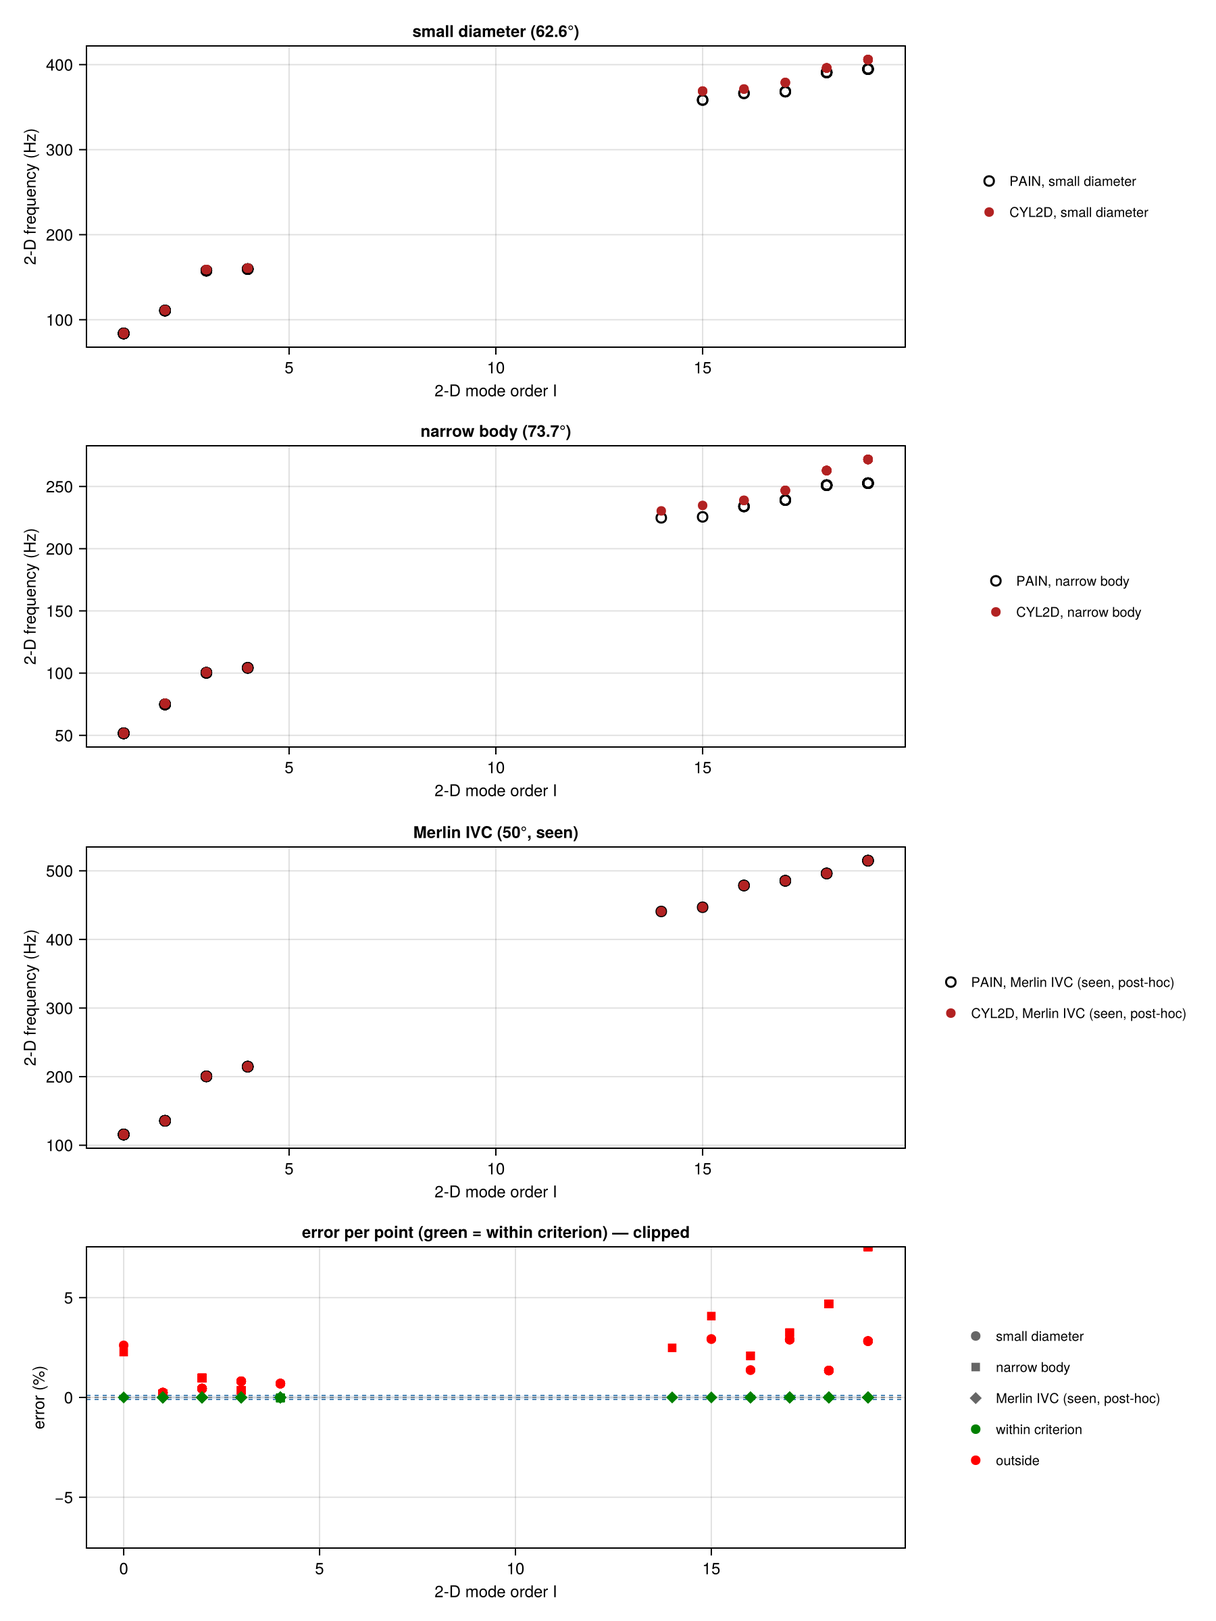
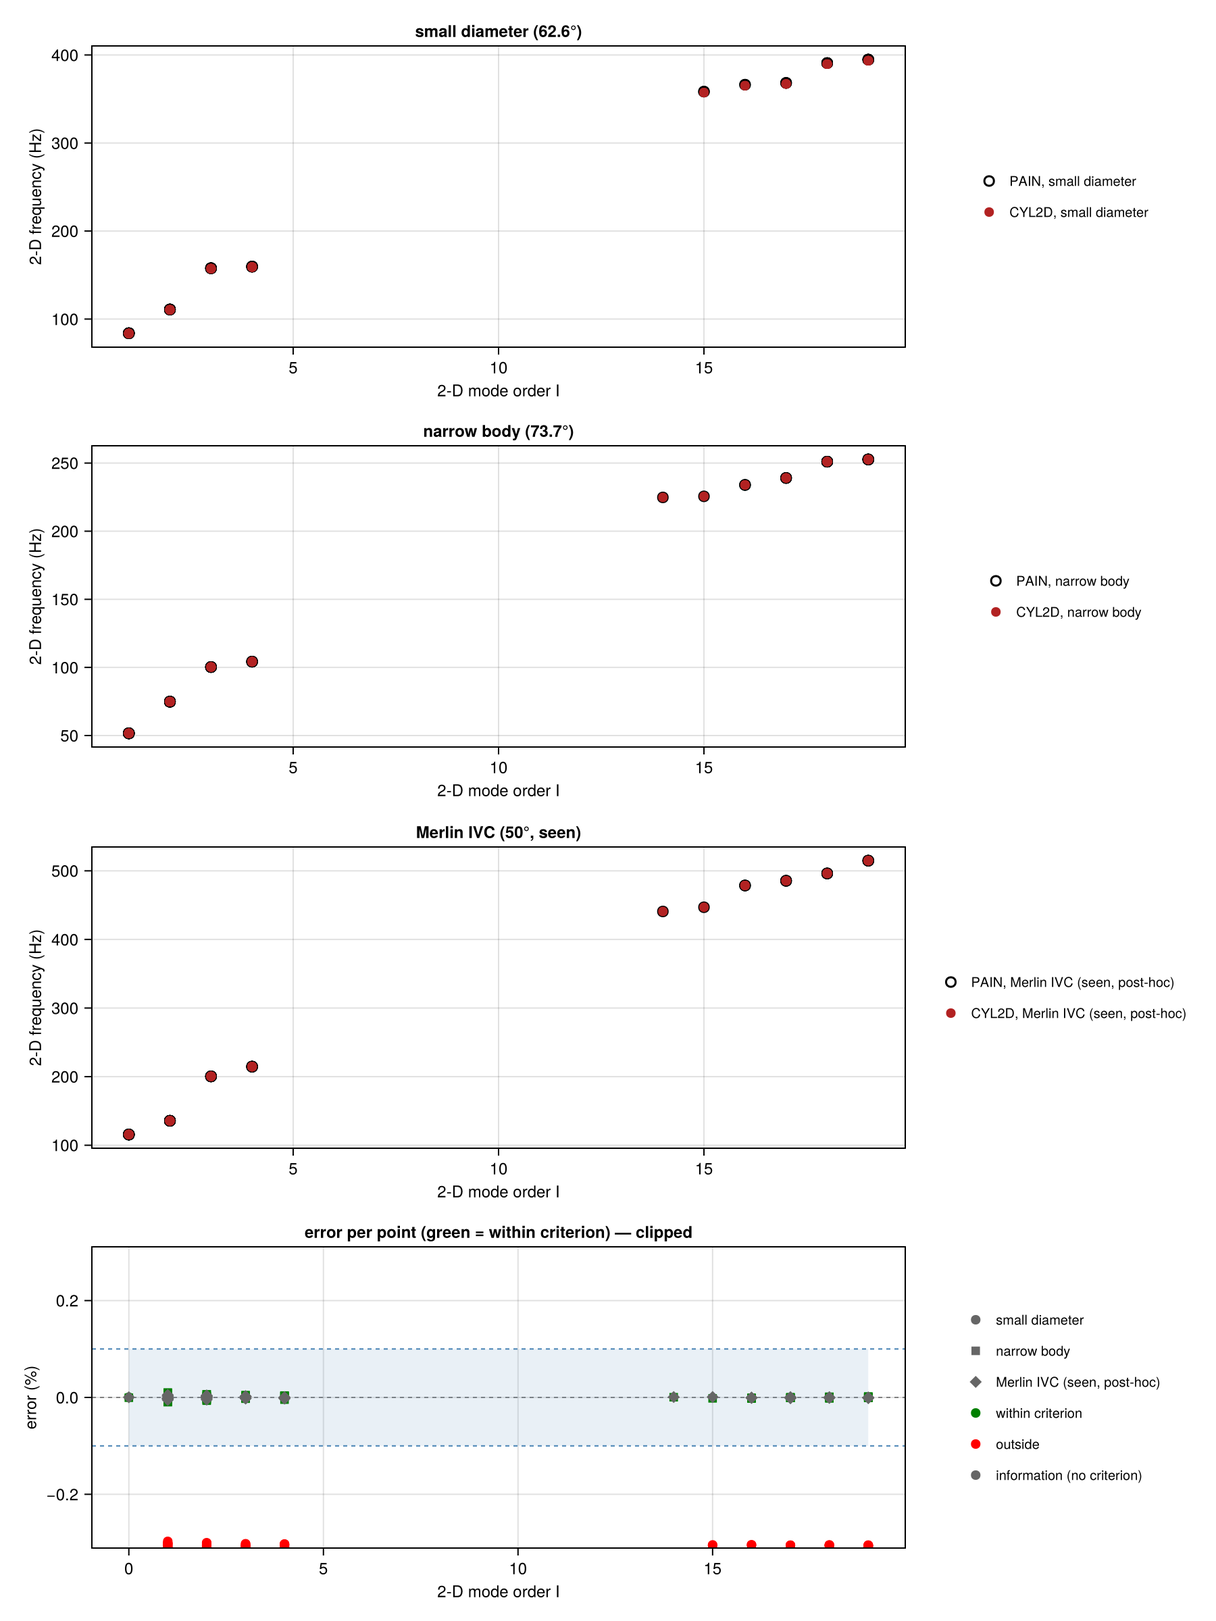
PAIN ISSUE-033 closed: CYL2D runs on NASA's printed grid at every floor angle; CYL2D_PRINTED stays not met
- On NASA's grid for a floor angle the kept eigenvalues' real parts are used (warning); the Phase 79b check
  (0.001, unchanged) still rejects any other grid. Basis: User Manual 5.1 (IMSL EIGRF, no rejection) and NASA's
  printed modes for the 62.6 deg grid.
- 62.6 deg, post-hoc re-run: eps(0,0) as printed, types 53/53, every frequency 0.30-0.31 % low (0/53 within
  0.1 %): one common factor, not explained by the documents; no input chosen from it.

diff --git a/PAIN_Program/docs/VALIDATION.md b/PAIN_Program/docs/VALIDATION.md
@@ -33,7 +33,7 @@ Each bar spans the part of the program chain a case runs: from the stage its giv
 | Cabin modes → Cabin modes | NASA's printed prediction | Cabin-mode factor ε_n against NASA's printout (CR-172428, App. B) (`APPB_EPS_N`) | met | 48/48 |
 | Cabin modes → Cabin modes | NASA's printed prediction | Cabin acoustic mode frequencies against NASA's printed list (CR-172428, App. B) (`CABIN_FREQ_PRINTED`) | met | 47/47 |
 | Cabin modes → Cabin modes | NASA's printed prediction | Cabin acoustic modes of the floored cylinder against NASA's Table C-1 (CR-3813) (`CYL2D_C1`) | met | 59/59 |
-| Cabin modes → Cabin modes | NASA's printed prediction | Cabin acoustic modes of two more aircraft against NASA's printed lists (CR-172428, App. C) (`CYL2D_PRINTED`) | not met | 62/116 |
+| Cabin modes → Cabin modes | NASA's printed prediction | Cabin acoustic modes of two more aircraft against NASA's printed lists (CR-172428, App. C) (`CYL2D_PRINTED`) | not met | 63/116 |
 | Cabin modes → Damping and trim | NASA's printed prediction | Cabin-mode loss factors with trim loss factor 2.0 against NASA's printout (CR-172428, p. 85) (`APPB_ETA_N_T2_BAND`) | met | 3/3 |
 | Damping and trim → Damping and trim | NASA's printed prediction | Loss factors of structure–cabin mode pairs against NASA's printout (CR-172428, App. B) (`APPB_ETA_RPP`) | met | 16/19 |
 
@@ -41,7 +41,7 @@ Each bar spans the part of the program chain a case runs: from the stage its giv
 
 | Case | Points | NASA's own printout on the same gate | Cause | Why | Tested in | What is left |
 |---|---|---|---|---|---|---|
-| `CYL2D_PRINTED` | 62/116 | not printed | approximation in this recreation | On NASA's printed grid rule the narrow body (61/61) and the Merlin (51/51) are reproduced; at 62.6° this code's eigenproblem fails its own real-eigenvalue check on NASA's grid (|Im|/|Re| 0.0012 against 0.001, a check set in Phase 79b), so the fallback grid of Q60 is used and misses. Why NASA's program solves that grid is not explained by the documents. (`phase140_cyl2d_printed_rule.md`) | Phases 103, 105, 140 | why the 62.6° grid gives complex eigenvalues here and not in NASA's program (ISSUE-033) |
+| `CYL2D_PRINTED` | 63/116 | not printed | NASA's printout or the measurement, not explained by the documents | The narrow body (61/61) and the Merlin (51/51) are reproduced. At 62.6°, on NASA's own grid (solved on the real parts since 2026-11-12, ISSUE-033), ε(0,0) and all 53 mode types equal NASA's and every frequency is 0.30–0.31 % low: one common factor, which a cabin radius or sound speed that is not printed for this aircraft would give. (`issue033_cyl2d_small_diameter.md`) | Phases 103, 105, 140; ISSUE-033 | the common factor 1.00305 (no printed input gives it; none is chosen from the result) |
 | `NR_TP1964_XOVER` | 9/18 | 12/18 (misses too: method limit) | PAIN's method misses the measurement | The misses are the Eq. (18) bands, where a negative noise reduction is a property of the equation (CR-159363 p. 138); the Eq. (19) bands agree within 2.5 dB. (`phase50_58_closeout.md`) | Phases 53, 138 | chart label (ISSUE-031) |
 | `PER_FIG8` | 10/14 | not printed | PAIN's method misses the measurement | Pereira's own CFD misses at the same angles by similar amounts (VALIDATION_GUIDELINE §2.14), and the loads are within 1 % of the measured thrust. (`pereira_forward_flight.md`) | Phases 69, 72, 74, 76 | chart label (ISSUE-031) |
 | `R172428_ETA` | 17/32 | not printed | unexplained (no documented cause survived its test) | Up to 470 Hz every mode is within 12 % of NASA's; above it the modes with almost no shell motion (share under 0.05) agree within 6 % and every other mode is 0.51–0.80 of NASA's. Every cause tested so far was ruled out, the band-centre rule included. (`phase139b_band_centre.md`) | Phases 82c, 118, 139 | look for an error in the loss-factor method (ISSUE-032) |
@@ -56,7 +56,7 @@ NASA's own printout: NASA's printed prediction put on the case's own measured po
 |---|---|---|---|---|
 | Noise reduction of a bare cylinder against measurement (TP-1964, Fig. 8) (`NR_TP1964_XOVER`) | Skin field → Bands and dB(A) | measurement | 9/18 | 9/18 in tol (needs ≥ 75 %) · max \|err\| 16.5 dB · med 5.2 dB |
 | Structural-mode loss factors against NASA's printout (CR-172428, App. B) (`R172428_ETA`) | Wall modes → Damping and trim | NASA's printed prediction | 17/32 | 17/32 within criterion · count only |
-| Cabin acoustic modes of two more aircraft against NASA's printed lists (CR-172428, App. C) (`CYL2D_PRINTED`) | Cabin modes → Cabin modes | NASA's printed prediction | 62/116 | 62/116 in tol (+ 52 shown, not judged) · max \|err\| 3.2 % · med 0.0091 % |
+| Cabin acoustic modes of two more aircraft against NASA's printed lists (CR-172428, App. C) (`CYL2D_PRINTED`) | Cabin modes → Cabin modes | NASA's printed prediction | 63/116 | 63/116 in tol (+ 52 shown, not judged) · max \|err\| 0.31 % · med 0.0088 % |
 | Cabin tone levels of the test article against the measured space averages (CR-172428) (`R172428_EXP`) | Skin field → Interior tones | measurement | 5/9 | 5/9 in tol · max \|err\| 17.6 dB · med 2.1 dB |
 | Propeller tone levels in forward flight against Pereira's measurement (Fig. 8) (`PER_FIG8`) | Blade and polars → Free field | measurement | 10/14 | 10/14 in tol · max \|err\| 3.7 dB · med 0.81 dB |
 | Propeller thrust and power coefficients against measurement (NACA RM L8H25a) (`R996_LOADS`) | Blade and polars → Blade loads | measurement | 24/32 | 24/32 in tol · max \|err\| 38.7 % · med 9.2 % |

diff --git a/PAIN_Program/docs/METHODOLOGY.md b/PAIN_Program/docs/METHODOLOGY.md
@@ -908,6 +908,7 @@ default project (6 blades, 1181 rpm, 22.7 m cabin), values copied by hand. The i
 | Source-block summary (phase 33a/c) | BBN 24b PASS / 24c FAIL; Report 996 23c FAIL (scaled ±2 dB, page-12 phase); Pereira 23d FAIL H1; Gutin cross-check **done** (`F1A_GUTIN`: F1A vs Gutin summed annulus by annulus over the BEMT loads, Δ = 0.03 dB; reference corrected 2026-10-24, the earlier 0.31 dB used a closed form low by √2·M and is withdrawn); Phase 66 (2026-10-24): off-plane Gutin, Garrick–Watkins in flight and compact thickness noise met except one near-null phase; BEMT momentum identity, hand BEM with tip loss, integrals, similarity met (`phase66_bemt_f1a.md`). Aircraft free field stays **X-EXTRAP** | this register; `VALIDATION_GUIDELINE.md` §2.3.3 |
 | GUI Validation tab (phase 34); Validation map tab (phase 35 → total, retired in Phase 147, 2026-11-10) | Case texts are read from `docs/CASE_RECORDS.md` since Phase 148 (2026-11-11; moved word for word from the guideline's §2.13), and the status page is `docs/VALIDATION.md`. Shows registered cases only (fixed inputs, fixed criterion, dated). Not a calibration tool; no editable case inputs. Same `run_validation_case` as scripts/`Pkg.test()` (the suite writes its reports and figures to a temp dir and checks it left tracked docs/data unchanged, 2026-10-23). Plots: reference as digitized + computed + error panel; PNG under `docs/validation_reports/figures/`, redrawn by Run or by `scripts/run/regenerate_case_figures.jl` (which also updates the case's snapshot row); on selection the GUI says when the saved figure is older than the recorded result (Phase 75). Map chips roll up the criterion rows only; rows labelled "(info" stay in the table and figure (Phase 79a). One map `total` in `validation_map.jl` (aircraft + e11 + cabin + checks; `Position`/`Feeds`/`Group`/`Role`; horizontal canvas; group frames from own blocks only, pairwise disjoint). Case chips show a short display-only error line + source date (`k/n · X U max` / `no verdict · X U max`; full text in detail; absolute unit from last `(...)` in `error_ylabel`/`ylabel`; `:none`+met/not_met → `n/n within criterion`; snapshot CSV). Case/map/block copy from `VALIDATION_GUIDELINE.md` §2.13 (both tabs; each Explanation ends with Inputs / Equations / Outputs). `UT_GRID` runnable with γ-coloured grid figure. Runnable include `E18_TONES` / `E15_STRUCT_LOSS` (38d–38e); R996_FIG8 removed | `src/validation_cases.jl`, `validation_map.jl`, `validation_plots.jl`, GUI tabs |
 | Held-out test of the shipped tone form (ISSUE-034, 2026-11-12) | A limit: the q = 0 choice of the shipped form has no held-out test. `R172428_ETAT2` and `APPB_ETA_N_T2_BAND` change only the damping; `FLIGHT10_H234` is post-hoc (no criterion before its run); the documents hold no other PAIN printout | `ISSUES.md` ISSUE-034 |
+| CYL2D on NASA's printed grid (ISSUE-033, 2026-11-12) | On NASA's grid for a floor angle (CR-165869 p. 60) kept eigenvalues that are not exactly real (at most 1 % off for 30°–85°) are used by their real parts, with a warning; NASA's program (IMSL EIGRF) has no rejection. The Phase 79b check (0.001) still applies to every other grid | `src/cyl2d.jl`, `issue033_cyl2d_small_diameter.md` |
 | Uncertainty budget (phase 31) | Since 2026-11-12 (ISSUE-038) its cache uses the pipeline's App. D mode cut-off (`appd_cut_frequency`), so its nominal sample equals the pipeline's result; no case uses the budget | `src/uncertainty.jl` |
 | Chain coverage chart (phase 134) | Display only (48 cases without a verdict retired in Phase 150e, 2026-11-11; list in `RETIRED_CASES`): one bar per case over the chain stages it runs (§2.13 `**Chain span:**`), coloured by `**Compared with:**`, with the recorded verdict. Since Phases 145–146 (2026-11-11) the summary beside each case says what its count is (the rule of a fractional criterion, rows shown but not judged counted apart, no pseudo-units) and each case with a verdict has a plain title (`PLAIN_TITLES`); display only, no verdict moves. §0, `NO_VERDICT_CASES.md`, GUI Coverage tab. | `src/validation_coverage.jl`, `figures/coverage/` |
 | Cabin modes animation (phase 36) | Display only: full-section mode frames from `cyl2d_modes`, Fig. C-3 overlay, Eq. (C.9) axial factor, optional structural ψ / f′. Own GUI tab; fixed `CYL2D_C1` inputs. Since Phase 151 (2026-11-11) it plays in the tab and, on "Open in new window", in a GLMakie window of its own (`scripts/run/cabin_mode_window.jl`). No criterion, no verdict, no tuning | `src/mode_animation.jl`, Cabin modes tab |

diff --git a/PAIN_Program/README.md b/PAIN_Program/README.md
@@ -64,6 +64,7 @@ The [flowcharts](docs/flowchart.md) show the total program overview (diagram 1),
 | Phase 127 (2026-11-04) | **Done.** Every input and every run-path constant is a GUI field. The Run tab has one tab per group (propeller, flight, placement, cabin, structure, damping and trim, broadband and bands) plus seven Numerics tabs. Those tabs hold the 59 constants that were literals in the code, as `PainSettings` (`src/pain_settings.jl`), each defaulting to its old value: grid, F1A source, Eq. (43), CYL2D, App. D cutoff, coupling options, broadband. A project file is only an optional Open / Save. The default run is bit-identical to the run before this phase (default Hartzell, e11 test article, Commander 695A). The printed-outputs tab now uses the run's own BPF instead of the 150 Hz field. Inventory: `docs/INPUTS_AND_SETTINGS.md`. |
 | ISSUE-036, 038 closed (2026-11-11) | **Done (tests and one code fix; no case involved).** The uncertainty budget now keeps the same structural modes as the pipeline, so its nominal sample equals the pipeline's result again (testset 55/55). The twelve functions without a unit test have one; the completeness check passes. |
 | ISSUE-034, 037 closed (2026-11-11) | **Done (one verdict removed by the input rule).** `E14_LOSS` carries no verdict: two trim inputs that are not printed (facing side, end-plate backing) move its loss factor by up to 8.5 % and 43 % against a 25 % tolerance; outcome 7/18 kept. 19 cases with a verdict: 13 met, 6 not met. ISSUE-034 answered: `FLIGHT10_H234` is post-hoc and no other PAIN printout exists, so the shipped form's q = 0 choice has no held-out test, stated as a limit in METHODOLOGY. |
+| ISSUE-033 closed (2026-11-11) | **Done (code follows NASA's grid; the case stays not met).** At 62.6° the code now runs on NASA's own cabin grid: its first-mode factor and all 53 mode types equal NASA's printed list, and every frequency is 0.30–0.31 % low, one common factor that no printed input explains. Every floor angle from 30° to 85° now runs on NASA's grid, so nothing falls back to another one. Report: `issue033_cyl2d_small_diameter.md`. |
 | Phase 150 closed (2026-11-11) | **Done, except the per-stage file move (ISSUE-040).** 48 cases without a verdict retired from the approved list (refuted diagnostics, the T1/T2 family on CR-3813's unprinted field, unmeasured broadband, checks that hold by construction); their reports stay, `RETIRED_CASES` names each. Old `rea-work` paths fixed in `.gitignore` and scripts. 99 cases remain registered; the 20 verdicts are unchanged. Report: `phase150_layout_and_cases.md`. |
 | Phase 149 closed (2026-11-11) | **Done (documents only).** Every Markdown file outside the validation reports has a keep proposal with its reason (`docs/MARKDOWN_INVENTORY.md`); none is deleted. Every link in this README resolves. |
 | Phase 148 closed (2026-11-11) | **Done (documents; the parser reads a new path).** The validation guideline is split by job: the status page is `docs/VALIDATION.md` (generated), the case records are `docs/CASE_RECORDS.md`, the phase notes are `docs/VALIDATION_HISTORY.md`, and `VALIDATION_GUIDELINE.md` keeps the criteria, word for word. Same 150 cases and verdicts. |

diff --git a/PAIN_Program/docs/validation_reports/issue033_cyl2d_small_diameter.md b/PAIN_Program/docs/validation_reports/issue033_cyl2d_small_diameter.md
@@ -1,0 +1,32 @@
+# ISSUE-033: the cabin modes of the small-diameter aircraft (62.6°) on NASA's grid (2026-11-12)
+
+Decided and done by Claude under the author's authority of 2026-11-11 ("fix all the issues"; "make decisions logically like i do"). `CYL2D_PRINTED` stays **not met**; its criterion, tolerance and reference lists are unchanged. The re-run is post-hoc: both lists had been seen.
+
+## The diagnostic (one run, the ticket's question 3)
+
+NASA's grid for 62.6° has 10 intervals (CR-165869 p. 60). On it this code's check "the kept eigenvalues must be real" (Phase 79b, |Im|/|Re| ≤ 0.001) failed at 0.0012, so the code fell back to 12 intervals. With the check looked past and the real parts taken:
+
+| Against NASA's printed list (53 modes) | Fallback grid (12), as shipped before | NASA's grid (10), real parts |
+|---|---|---|
+| ε(0,0), printed 0.96858 | 0.99986 | **0.96858** |
+| mode types equal | 37/53 | **53/53** |
+| frequencies within 0.1 % | 0/53 | 0/53 |
+| frequency difference | 0.67 % median, 3.0 % largest, scattered | **−0.30 % to −0.31 % at every mode** |
+
+So the scheme is NASA's: the first-mode factor and every mode type are reproduced. What is left is one common factor of 1.00305 on every frequency.
+
+## What changed in the code
+
+- **On NASA's printed grid the check no longer rejects; the real parts are used, with a warning.** The check is this recreation's own. NASA's program used the IMSL routine EIGRF for a real general matrix (User Manual §5.1), the manual describes no rejection, and NASA printed modes for this very grid. The threshold (0.001) is not changed, and the check still applies to every grid that is not NASA's for its floor angle.
+- Scanned 2026-11-12 for floor angles 30° to 85° in half-degree steps: on NASA's grid the kept eigenvalues are never more than 1 % from real, and the grid always solves. So every floor angle now runs on NASA's grid; before, 42 of the 111 angles fell back to another grid.
+- The GUI's automatic floor angle of 62.6° (fuselages of 2.5–2.7 m) therefore runs on NASA's grid now.
+
+This cannot make the case pass: 0.30 % is three times its 0.1 % tolerance, before and after.
+
+## What is not explained
+
+The common factor 1.00305. A cabin radius of 1.1415 m in place of the 1.145 m of the structural deck (App. C p. 210, read again at 130 dpi on 2026-11-12: 1.145), or a sound speed of 342.0 m/s in place of 341, would give it. Neither is printed for this aircraft, so neither is used: choosing one from this result would be tuning. The narrow body and the Merlin are reproduced with their deck radius and 341 m/s.
+
+`CYL2D_PRINTED` after the re-run: small diameter ε exact, types 53/53, frequencies 0/53; narrow body 61/61; summary 63/116 (was 62/116). Cause on record: NASA's printout, not explained by the documents.
+
+The two diagnostic scripts were run once and not kept (rule of 2026-11-10).

diff --git a/PAIN_Program/docs/ISSUES.md b/PAIN_Program/docs/ISSUES.md
@@ -17,7 +17,7 @@ Two lists, newest first in each. **Not assigned to a phase**: issues to act on o
 | 036 | Twelve source functions have no unit test, so the completeness check fails | Tests | closed 2026-11-12 |
 | 035 | The summary file and §0 date from 2026-11-02 and do not show the changes since | Record | closed 2026-11-11 |
 | 034 | The shipped program form has no held-out test of all its parts; R172428_ETAT2 changes only the trim damping | Validity, investigation | closed 2026-11-12: answered, a stated limit |
-| 033 | CYL2D at 62.6°: this code rejects NASA's grid where NASA's program solved it | Not met, investigation | open |
+| 033 | CYL2D at 62.6°: this code rejects NASA's grid where NASA's program solved it | Not met, investigation | closed 2026-11-12: NASA's grid is solved; a common factor of 0.3 % stays unexplained |
 | 032 | R172428_ETA and E14_LOSS: look for an error in the loss-factor method | Not met, investigation | open (R172428_ETA only since 2026-11-12; E14_LOSS has no verdict, ISSUE-037) |
 | 031 | Not-met cases where a published prediction misses the same way: a separate look on the chart | Readability | open, two questions for the author |
 | 030 | R996_LOADS: the fix needs more measured section data or CFD | Not met | on hold (author 2026-11-10) |
@@ -246,7 +246,7 @@ Both change only the damping. Nothing held out tests the q = 0 choice or the for
 
 ## ISSUE-033: CYL2D at 62.6°: this code rejects NASA's grid where NASA's program solved it
 
-**Status:** open, not assigned to a phase. Recorded 2026-11-10. Investigation. No criterion, tolerance, threshold or verdict changes.
+**Status:** closed 2026-11-12 (Claude, under the author's authority of 2026-11-11; report `validation_reports/issue033_cyl2d_small_diameter.md`). The diagnostic of question 3 was run: on NASA's 10-interval grid, with the real parts taken, ε(0,0) is NASA's 0.96858, all 53 mode types are NASA's, and every frequency is 0.30–0.31 % low. So the check was what kept the code off NASA's grid. Since NASA's program has no such rejection (User Manual §5.1, EIGRF) and printed modes for this grid, the code now uses the real parts on NASA's printed grid; the 0.001 threshold is unchanged and still applies to every other grid. `CYL2D_PRINTED` stays not met (0.30 % against 0.1 %); the common factor is not explained by the documents, and no input was chosen from it. Was: open, not assigned to a phase. Recorded 2026-11-10. Investigation. No criterion, tolerance, threshold or verdict changes.
 
 **Author (2026-11-10).** On CYL2D_PRINTED's cause: "i guess it would be both create a new issue ticket for this case since our code isnt relating to nasas in this aspect". The cause record (Phase 135d) is "approximation in this recreation", with the unexplained part stated in its sentence.
 

diff --git a/PAIN_Program/docs/CASE_RECORDS.md b/PAIN_Program/docs/CASE_RECORDS.md
@@ -2093,7 +2093,7 @@ Outputs: f_r [Hz], generalized mass [kg].
 **Why it is here:** CYL2D's only input is θ₀; reproduces PAIN's output from PAIN's input at floor angles other than the test article's.
 **A pass means:** For each held-out aircraft, ε(0,0) within 0.02 %, every printed 2-D frequency within 0.1 % of CYL2D's at 341 m/s / a, every type equal; met if both pass.
 **Not covered:** Modes between the printed blocks; the narrow body's ε(0,0) is not printed (ε(1,0)/2 used); the Merlin list (50°) is recorded alongside, post-hoc.
-**Recorded outcome:** **not met** (first run 2026-10-30): the rule gives NY = 12 at both angles; 2-D frequencies 0/53 and 5/61 within 0.1 %; Merlin (seen) 51/51. Diagnostic: NASA's narrow-body grid is NY = 8; no grid fits the small-diameter list (best 2 %).
+**Recorded outcome:** **not met** (first run 2026-10-30): the rule gives NY = 12 at both angles; 2-D frequencies 0/53 and 5/61 within 0.1 %; Merlin (seen) 51/51. Diagnostic: NASA's narrow-body grid is NY = 8; no grid fits the small-diameter list (best 2 %). **Re-run 2026-11-12 (ISSUE-033, post-hoc; NASA's 62.6° grid solved on the real parts):** not met. Small diameter: ε(0,0) 0.96858 as printed, types 53/53, every frequency 0.30–0.31 % low (0/53 within 0.1 %); narrow body 61/61; summary 63/116 (`issue033_cyl2d_small_diameter.md`).
 **Explanation:** `_run_cyl2d_printed` in `validation_case_iso105.jl`.
 Inputs: `data/cr172428/appC_smalldia_acoustic_modes.csv`, `appC_narrowbody_acoustic_modes.csv`, `appC_merlin_acoustic_modes.csv`.
 Equations: App. C Eqs. (C.1)–(C.12).

diff --git a/PAIN_Program/docs/flowchart.md b/PAIN_Program/docs/flowchart.md
@@ -14,6 +14,7 @@ Colour key in diagrams: green = check exists and passes as stated; orange = plan
 
 - **2026-11-11 (ISSUE-036, 038 closed):** uncertainty cache on the pipeline's mode cut-off; flow unchanged.
 - **2026-11-11 (ISSUE-034, 037 closed):** E14_LOSS without a verdict (input rule); flow unchanged.
+- **2026-11-11 (ISSUE-033 closed):** CYL2D runs on NASA's printed grid at every floor angle; flow unchanged.
 - **2026-11-11 (Phase 150 closed):** 48 cases retired; flow unchanged.
 - **2026-11-11 (Phase 149 closed):** documents only; flow unchanged.
 - **2026-11-11 (Phase 148 closed):** documents split; flow unchanged.
